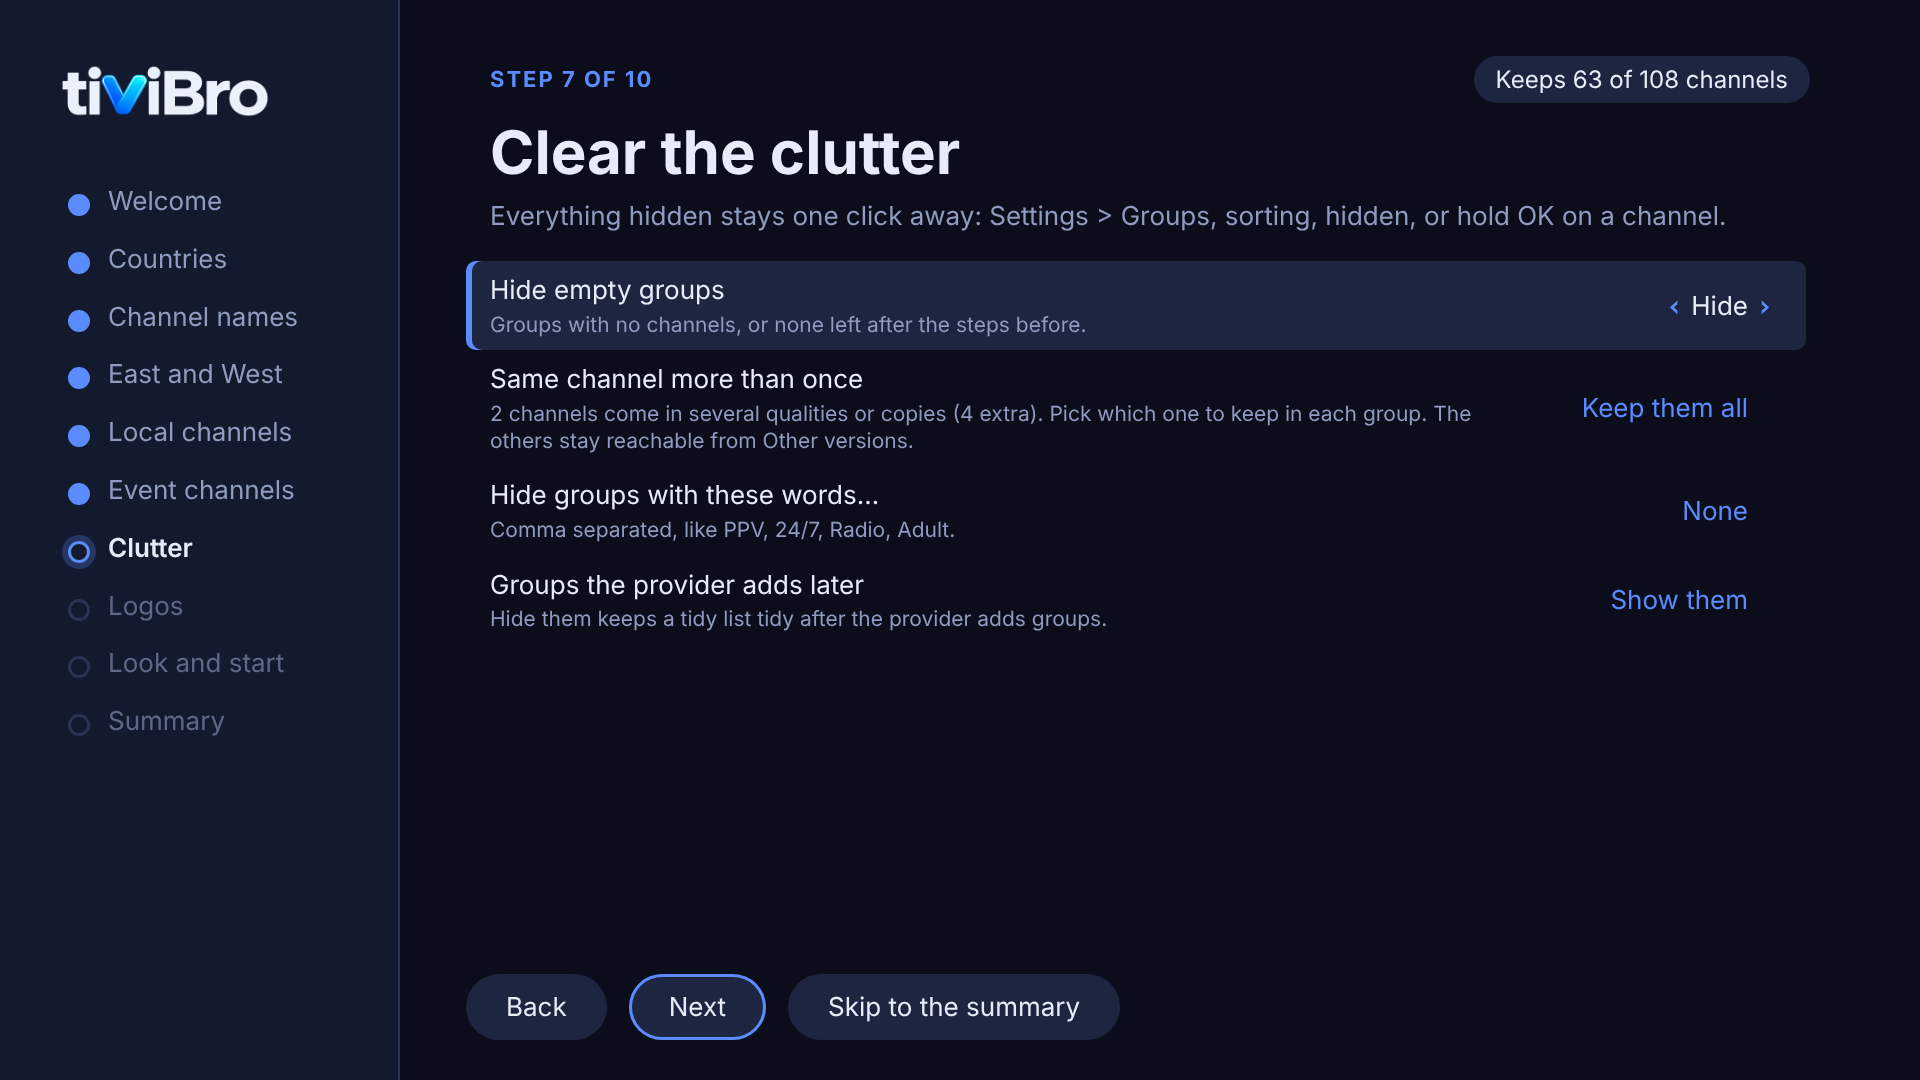
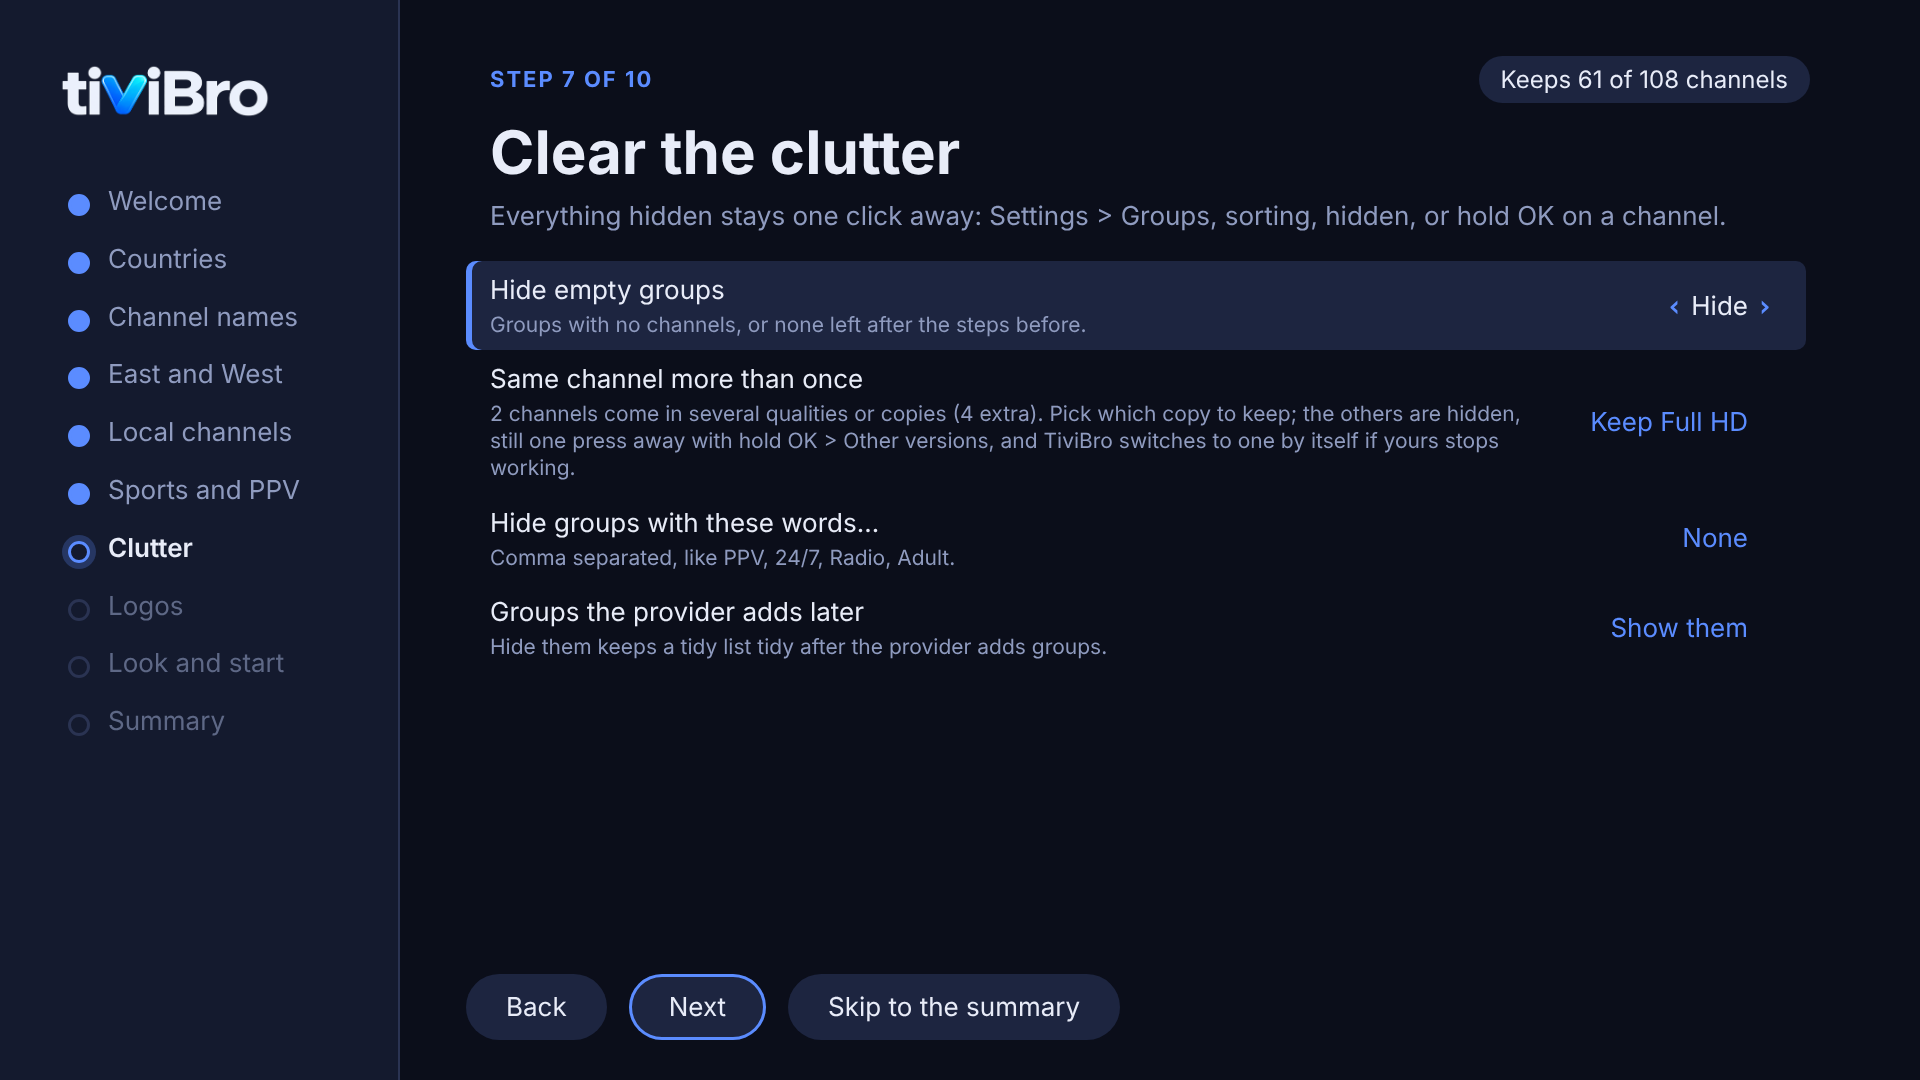
Set-up tour: your choices on the summary, clearer labels, Full HD duplicates by default

diff --git a/app/js/tour.js b/app/js/tour.js
@@ -94,8 +94,8 @@ var Tour = (function () {
     { id: 'countries', title: 'Keep the countries you watch', rail: 'Countries', lead: 'Read from group names, the codes channels start with and the divider sections in the list.  Hide the ones you never watch.', when: function () { return st.sv.countries.length > 1; }, rows: countryRows },
     { id: 'names', title: 'Clean channel names', rail: 'Channel names', lead: 'Providers pack names with tags: "USA | ESPN FHD ◉".  TiviBro shows "ESPN" and leaves your playlist alone.', rows: nameRows },
     { id: 'feeds', title: 'East or West?', rail: 'East and West', lead: function () { return plural(st.sv.feeds.pairs, 'channel') + ' come twice, on East and on West (Pacific) time.  Keep the feed you watch.  Channels that only come in one feed are left alone.'; }, when: function () { return st.sv.feeds.pairs > 0; }, rows: feedRows },
-    { id: 'locals', title: 'Your local channels', rail: 'Local channels', lead: function () { return 'Your provider carries ' + plural(st.sv.locals.chans.length, 'local station') + ' for ' + plural(st.sv.locals.cities.length, 'city', 'cities') + '.  Tick yours, or a few nearby, and the others are hidden in every local group.  ◀ ▶ jump between letters.'; }, when: function () { return st.sv.locals.cities.length > 1; }, rows: localRows },
-    { id: 'events', title: 'Sports and pay-per-view', rail: 'Event channels', lead: function () { return 'Pay-per-view and sports passes put the game and its time in the channel name.  TiviBro reads it and builds the guide from it.  ' + plural(st.sv.events, 'event channel') + ' here.'; }, when: function () { return st.sv.events > 0; }, rows: eventRows },
+    { id: 'locals', title: 'Your local channels', rail: 'Local channels', lead: function () { return 'Your provider carries ' + plural(st.sv.locals.chans.length, 'local station') + ' for ' + plural(st.sv.locals.cities.length, 'city', 'cities') + '.  Tick yours, or a few nearby: the other cities are hidden, and yours can go together in one Local channels group.  ◀ ▶ jump between letters.'; }, when: function () { return st.sv.locals.cities.length > 1; }, rows: localRows },
+    { id: 'events', title: 'Sports and pay-per-view', rail: 'Sports and PPV', lead: function () { return 'Pay-per-view and sports passes put the game and its time in the channel name.  TiviBro reads it and builds the guide from it.  ' + plural(st.sv.events, 'event channel') + ' here.'; }, when: function () { return st.sv.events > 0; }, rows: eventRows },
     { id: 'clutter', title: 'Clear the clutter', rail: 'Clutter', lead: 'Everything hidden stays one click away: Settings > Groups, sorting, hidden, or hold OK on a channel.', rows: clutterRows },
     { id: 'logos', title: 'Channel logos', rail: 'Logos', lead: 'For channels with no logo, from two open projects, iptv-org and tv-logos, matched by guide id, name and country, and a local station\'s call sign.  TiviBro hosts no images: each logo loads from its project.', rows: logoRows },
     { id: 'look', title: 'Make it yours', rail: 'Look and start', lead: 'Colours, text size and what TiviBro opens on.  Buffering, buttons and parental controls are in Settings.', rows: lookRows },
@@ -110,7 +110,7 @@ var Tour = (function () {
     card(fmt(sv.groups), 'groups');
     if (sv.countries.length) card(fmt(sv.countries.length), sv.countries.length === 1 ? 'country' : 'countries');
     if (sv.events) card(fmt(sv.events), 'event channels');
-    if (sv.feeds.pairs) card(fmt(sv.feeds.pairs), 'in East and West');
+    if (sv.feeds.pairs) card(fmt(sv.feeds.pairs), 'channels in East + West');
     if (sv.locals.cities.length) card(fmt(sv.locals.cities.length), 'local cities');
     if (sv.dupeExtra) card(fmt(sv.dupeExtra), 'extra copies');
     if (p.vod && (p.vod.movies || p.vod.series)) card(p.vod.movies && p.vod.series ? 'Movies + Shows' : p.vod.movies ? 'Movies' : 'Shows', 'on demand');
@@ -213,7 +213,7 @@ var Tour = (function () {
     var sv = st.sv, ch = st.ch, out = [], S_ = S();
     if (sv.dividers.length) out.push(toggle('Hide divider groups', plural(sv.dividers.length, 'group') + ' like "' + sv.dividers[0].name + '" that only split the list into sections.', function () { return ch.dividers; }, function (v) { ch.dividers = v; draw(); }, 'Hide', 'Keep'));
     out.push(toggle('Hide empty groups', 'Groups with no channels, or none left after the steps before.', function () { return ch.empty; }, function (v) { ch.empty = v; draw(); }, 'Hide', 'Keep'));
-    if (sv.dupeSets) out.push(choice('Same channel more than once', plural(sv.dupeSets, 'channel') + ' come in several qualities or copies (' + fmt(sv.dupeExtra) + ' extra).  Pick which one to keep in each group.  The others stay reachable from Other versions.',
+    if (sv.dupeSets) out.push(choice('Same channel more than once', plural(sv.dupeSets, 'channel') + ' come in several qualities or copies (' + fmt(sv.dupeExtra) + ' extra).  Pick which copy to keep; the others are hidden, still one press away with hold OK > Other versions, and TiviBro switches to one by itself if yours stops working.',
       DUPES, DUPE_L, function () { return ch.dupes; }, function (v) { ch.dupes = v; draw(); }));
     out.push(action('Hide groups with these words…', 'Comma separated, like PPV, 24/7, Radio, Adult.', function () {
       UI.prompt('Hide groups whose name contains', ch.words, function (v) { ch.words = v; draw(); }, 'Comma separated.  Upper and lower case do not matter.');
@@ -227,7 +227,11 @@ var Tour = (function () {
     var box = U.el('div', 'tour-logos'), st_ = Logos.status;
     if (Logos.mode() === 'off') { box.appendChild(U.el('div', 'tour-note', 'Off: channels show the playlist\'s and the guide\'s logos only.')); return box; }
     if (st_.state === 'loading') { box.appendChild(U.el('div', 'tour-note', 'Looking up logos for your channels…')); return box; }
-    if (st_.state === 'error') { box.appendChild(U.el('div', 'tour-note err', 'The logo library could not be reached: ' + st_.error)); return box; }
+    if (st_.state === 'error') {
+      if (!st.logoWarned) { st.logoWarned = true; Log.warn('tour', 'Logo library: ' + st_.error); }
+      box.appendChild(U.el('div', 'tour-note err', 'The logo library could not be reached just now, so channels keep the logos they have.  Check the TV\'s internet; TiviBro tries again each time it starts.'));
+      return box;
+    }
     var chans = Library.data.channels, own = function (c) { return Views.ownLogo(c); };
     var cov = st.cov || (st.cov = Logos.coverage(chans, own));
     box.appendChild(U.el('div', 'tour-note', 'Found ' + plural(cov.found, 'logo') + ' for your ' + fmt(cov.total) + ' channels, ' + fmt(cov.filled) + ' of them for channels with none.'));
@@ -285,6 +289,8 @@ var Tour = (function () {
     if (pl.hidC) card(fmt(pl.hidC), 'channels hidden');
     if (pl.hidG) card(fmt(pl.hidG), 'groups hidden');
     out.push(custom(cards));
+    out.push(head('Your choices: OK on one to change it'));
+    choices().forEach(function (x) { out.push(action(x[1], '', function () { jump(x[0]); }, function () { return x[2]; })); });
     out.push(head('Good to know'));
     var tips = U.el('div', 'tour-tips');
     [['Hold OK on a channel', 'Favorites, other versions, reminders, hide, block, assign a guide.'],
@@ -297,6 +303,38 @@ var Tour = (function () {
     });
     out.push(custom(tips));
     return out;
+  }
+
+  // One line per step for the summary: [step id, label, what it will do].
+  function choices() {
+    var ch = st.ch, sv = st.sv, s = S(), out = [], ids = steps().map(function (x) { return x.id; });
+    function has(id) { return ids.indexOf(id) >= 0; }
+    if (has('countries')) {
+      var keep = sv.countries.filter(function (x) { return ch.cc[x.p] !== false; }).map(function (x) { return x.name; });
+      out.push(['countries', 'Countries', (keep.length === sv.countries.length ? 'Every country' : keep.length ? 'Keep ' + (keep.length > 3 ? plural(keep.length, 'country', 'countries') : keep.join(', ')) : 'None') + (ch.ccNone ? '' : ', no-country groups hidden')]);
+    }
+    var nr = Names.RULES.filter(function (r) { return ch.names.rules[r.id] != null ? !!ch.names.rules[r.id] : r.on; }).length;
+    out.push(['names', 'Channel names', ch.names.enabled ? 'Cleaned, ' + nr + ' of ' + Names.RULES.length + ' rules' + (ch.names.groups ? ', groups too' : '') : 'As the provider sends them']);
+    if (has('feeds')) out.push(['feeds', 'East and West', ch.feed === 'both' ? 'Keep both' : 'Keep ' + (ch.feed === 'east' ? 'East' : 'West') + (ch.feedGroups ? ', other feed\'s groups hidden' : '')]);
+    if (has('locals')) {
+      var cs = Object.keys(ch.cities).map(Tidy.titleCase);
+      out.push(['locals', 'Local channels', !cs.length ? 'Every city' : (cs.length > 3 ? plural(cs.length, 'city', 'cities') : cs.join(', ')) + (ch.cityGroup ? ' in Local channels' + (ch.cityHideNets ? ', network groups hidden' : '') : '')]);
+    }
+    if (has('events')) out.push(['events', 'Sports and PPV', st.ch.events.on === false ? 'Off' : 'Read from names' + (st.ch.events.group !== false ? ', Events by time' : '') + (ch.names.hideIdle ? ', nothing-on hidden' : '')]);
+    var cl = [];
+    if (sv.dividers.length && ch.dividers) cl.push('dividers');
+    if (ch.empty) cl.push('empty groups');
+    if (sv.dupeSets && ch.dupes !== 'off') cl.push('extra copies (' + DUPE_L[DUPES.indexOf(ch.dupes)].replace(/^Keep /, '').replace(/ \(.*\)$/, '') + ' kept)');
+    if (ch.words.trim()) cl.push('"' + ch.words.trim() + '"');
+    out.push(['clutter', 'Clutter', cl.length ? 'Hide ' + cl.join(', ') : 'Nothing hidden']);
+    out.push(['logos', 'Logos', !s.logoLib || s.logoLib === 'off' ? 'Playlist and guide logos only' : (s.logoLib === 'all' ? 'Library for every channel' : 'Fill in missing') + ', ' + (s.logoStyle === 'original' ? 'original logos' : 'matching set')]);
+    var K = Settings.LOOK, ai = K.ACCENTS.indexOf(s.accent), ti = K.THEMES.indexOf(s.theme || 'dark');
+    out.push(['look', 'Look and start', (ai >= 0 ? K.ACCENT_NAMES[ai] : 'Custom colour') + ' on ' + (ti >= 0 ? K.THEME_NAMES[ti] : 'Midnight') + ', opens on ' + (s.startTab === 'live' ? 'Channels' : 'Guide')]);
+    return out;
+  }
+  function jump(id) {
+    var list = steps(), i = list.map(function (x) { return x.id; }).indexOf(id);
+    if (i >= 0) go(i - st.step);
   }
 
   /* ---------- phone or computer ---------- */
@@ -343,7 +381,7 @@ var Tour = (function () {
     st.foot = foot;
     st.all = st.items.concat(foot);
     if (st.sel < 0 || st.sel >= st.all.length || !focusable(st.all[st.sel])) {
-      var want = st.sel === -2 ? 'end' : 'start';
+      var want = st.sel === -2 || step.id === 'done' ? 'end' : 'start';
       st.sel = -1;
       if (want === 'start') { for (var i = 0; i < st.all.length; i++) if (focusable(st.all[i]) && !st.all[i].btn) { st.sel = i; break; } }
       if (st.sel < 0) for (var j = 0; j < st.all.length; j++) if (st.all[j].primary) st.sel = j;
@@ -517,7 +555,7 @@ var Tour = (function () {
     // Pre-ticked: the TV's own country when the playlist has it, otherwise every country.
     st.sv.countries.forEach(function (x) { cc[x.p] = inList ? x.p === region : true; });
     st.ch = { cc: cc, ccNone: true, names: clone(p.names || Names.defaults()), events: clone(p.events || {}), feed: st.sv.feeds.pairs ? 'east' : 'both', feedGroups: true,
-      cities: {}, cityNone: true, cityGroup: true, cityHideNets: true, dividers: true, empty: true, dupes: 'off', words: '' };
+      cities: {}, cityNone: true, cityGroup: true, cityHideNets: true, dividers: true, empty: true, dupes: st.sv.dupeSets ? 'fhd' : 'off', words: '' };
     if (st.ch.names.enabled === false && opts.first) st.ch.names.enabled = true;
     if (opts.first && st.sv.idle) st.ch.names.hideIdle = true;
     Logos.load(Library.data).then(function () { if (st && cur().id === 'logos') { st.cov = null; draw(); } });

diff --git a/tests/soak/tour.js b/tests/soak/tour.js
@@ -38,7 +38,7 @@ const ok = (n, c, x) => { console.log((c ? 'PASS ' : 'FAIL ') + n + (x !== undef
   await ev(() => Tour.open({ first: true })); await page.waitForTimeout(1200);
   ok('opens on the welcome step', await step() === 'welcome');
   const w = await text();
-  ok('welcome shows what the playlist has', /channels/.test(w) && /countries/.test(w) && /event channels/.test(w) && /in East and West/.test(w) && /local cities/.test(w), w.replace(/\s+/g, ' ').slice(0, 300));
+  ok('welcome shows what the playlist has', /channels/.test(w) && /countries/.test(w) && /event channels/.test(w) && /in East \+ West/.test(w) && /local cities/.test(w), w.replace(/\s+/g, ' ').slice(0, 300));
   await shot('tv-tour-welcome');
 
   // Phone or computer: QR code, address and password, then back.
@@ -123,6 +123,15 @@ const ok = (n, c, x) => { console.log((c ? 'PASS ' : 'FAIL ') + n + (x !== undef
   const promised = await ev(() => Tour.plan().chans);
   ok('summary: tips', /Hold OK on a channel/.test(await text()) && /Multiview/.test(await text()));
   await shot('tv-tour-done');
+  const t = await text();
+  ok('summary: your choices, one per step', /Your choices/.test(t) && /Detroit in Local channels, network groups hidden/.test(t) && /Keep East/.test(t) && /extra copies \(Full HD kept\)/.test(t), t.replace(/\s+/g, ' ').slice(0, 400));
+  ok('summary: Apply is focused first', await focused() === 'Apply and start watching', await focused());
+  for (let n = 0; n < 20 && !/^Local channels$/.test(await focused()); n++) await key('ArrowUp', 120);
+  ok('summary: OK on a choice opens its step', /^Local channels$/.test(await focused()) && (await key('Enter', 600), await step()) === 'locals', await step());
+  for (let n = 0; n < 80 && !/^Next$/.test(await focused()); n++) await key('ArrowDown', 60);
+  for (let n = 0; n < 4 && !/^Skip to the summary$/.test(await focused()); n++) await key('ArrowRight', 100);
+  await key('Enter', 600);
+  ok('summary: Skip to the summary comes back', await step() === 'done', await step());
   await focus('Apply and start watching'); await key('Enter', 2500);
   ok('closed', await ev(() => !Tour.isOpen && document.getElementById('viewSetup').classList.contains('hidden')));
   // Shown: every channel in All channels, plus the stations in Local channels (their network groups are hidden).

diff --git a/docs/USER-GUIDE.md b/docs/USER-GUIDE.md
@@ -60,10 +60,10 @@ The first screen counts your channels, groups, countries, event channels, East a
 | **East or West?** | Keep East feeds, West feeds or both, and whether to hide groups named West (or East).  Examples from your list. |
 | **Your local channels** | Every city your provider's local groups carry, A to Z, with the networks in each.  **OK** ticks a city; ◀ ▶ jump between letters.  The other cities' stations are hidden in every local group.  **Put them together in "Local channels"** (on) makes one group with your stations, by city and network, and **Then hide the network groups** (on) puts ABC Locals, CBS Locals and the rest out of the way so each station shows up once. |
 | **Sports and pay-per-view** | [Event channels](#event-channels-pay-per-view-and-sports-passes): reading events from names, short names, Events by time, the time zone for names without one, and **Hide channels with nothing on**.  The next events are listed. |
-| **Clear the clutter** | Divider groups, empty groups, the same channel more than once (keep Full HD, the best, HD or SD), groups with words like PPV or Adult, and whether groups the provider adds later show up. |
+| **Clear the clutter** | Divider groups, empty groups, the same channel more than once (keep Full HD, the default, or the best, HD, SD or every copy; hidden copies stay under hold OK > Other versions), groups with words like PPV or Adult, and whether groups the provider adds later show up. |
 | **Channel logos** | The [logo library](#channel-logos), its style, and which logo wins when the playlist and the guide both have one, with logos it found for your channels. |
 | **Make it yours** | Accent colour, background, text size, start screen, turning on the last channel at launch, the preview in the list, and what happens when a channel stops working.  Colours change as you pick them. |
-| **All set** | How many channels and groups you keep and hide, **Apply and start watching**, and a few things worth knowing. |
+| **All set** | How many channels and groups you keep and hide, **Your choices** (one line per screen, like "Detroit in Local channels, network groups hidden": **OK** on one goes back to that screen, and **Skip to the summary** comes back), **Apply and start watching**, and a few things worth knowing. |
 
 <p align="center">
   <a href="screenshots/tv-tour-countries.png"><img src="screenshots/tv-tour-countries.png" width="32%" alt="Countries"></a>

diff --git a/CHANGELOG.md b/CHANGELOG.md
@@ -2,6 +2,8 @@
 
 ## Unreleased
 
+- **Set-up tour: your choices on the summary.**  The last screen lists one line per step ("Keep USA", "Keep East, other feed's groups hidden", "Detroit in Local channels, network groups hidden"…); OK on one goes back to that step, and **Skip to the summary** returns.  The summary now starts on **Apply and start watching**.
+- Set-up tour: duplicates default to keeping the Full HD copy (the others stay under hold OK > Other versions, and TiviBro switches to one if yours stops working); the sports step is called **Sports and PPV** in the step list; the welcome card reads "channels in East + West"; and a logo library that can't be reached says so in plain words instead of a network error.
 - **Guide: a slimmer groups panel.**  The groups list now covers the channel column and no more, instead of a wide panel over the programmes (with logos only, it stays narrow too), and channel numbers no longer peek out beside it.  A group name too long to fit scrolls across while it's focused.
 - **Local channels in one group.**  Smart clean-up's **Local channels: pick your city** can also copy the stations you keep into one group, "Local channels" or a name of your own, by city and network, and then hide the network groups (ABC Locals, CBS Locals and the rest) so each station shows up once.  The set-up tour does the same, both on by default.
 - **Duplicates without the endless scrolling.**  **Same channel, more than once** opens on **To check**: only the channels where TiviBro couldn't tell which copy to keep.  **All** lists every set on one line, with a button per copy (FHD, HD, SD) to click the one to keep; **Find a channel** narrows the list, and **Hide extra copies** works on what was found.
